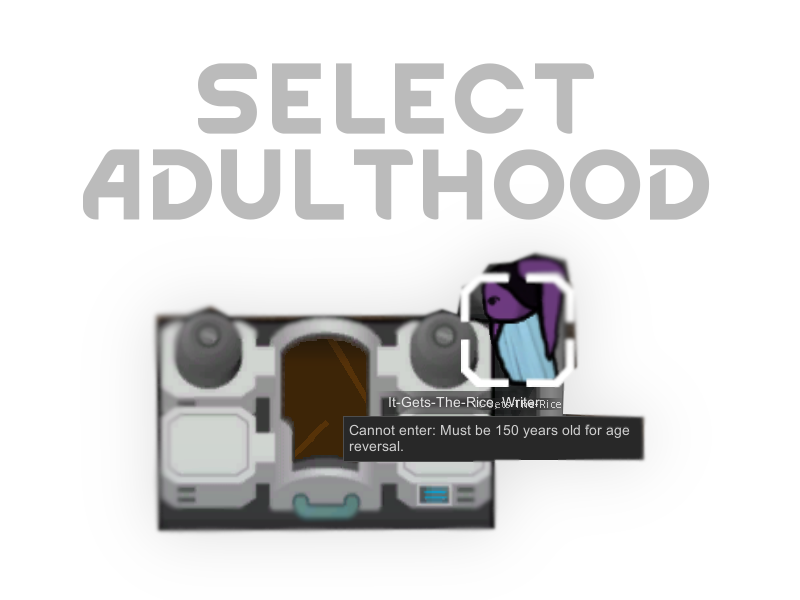
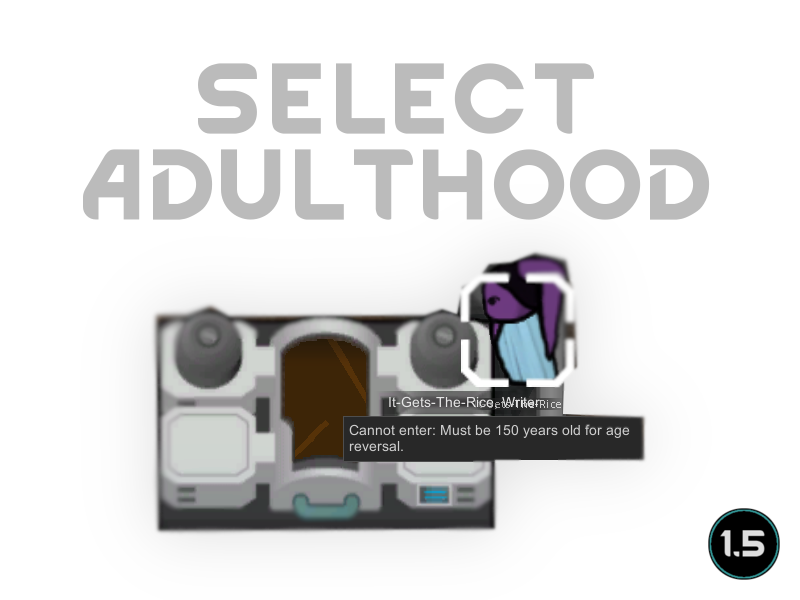
Mod updated for 1.5 and passed autotests

Changed region(s): [[0.875, 0.84, 1.0, 0.99]]

diff --git a/Source/SelectAdulthood/Pawn_AgeTracker_AdultMinAge.cs b/Source/SelectAdulthood/Pawn_AgeTracker_AdultMinAge.cs
@@ -19,12 +19,13 @@ public static class Pawn_AgeTracker_AdultMinAge
         }
 
         if (SelectAdulthoodMod.instance.Settings.RaceAdulthoods == null ||
-            SelectAdulthoodMod.instance.Settings.RaceAdulthoods.ContainsKey(___pawn.def.defName) == false)
+            SelectAdulthoodMod.instance.Settings.RaceAdulthoods.TryGetValue(___pawn.def.defName, out var adulthood) ==
+            false)
         {
             return;
         }
 
         __result = ___pawn.RaceProps
-            .lifeStageAges[SelectAdulthoodMod.instance.Settings.RaceAdulthoods[___pawn.def.defName]].minAge;
+            .lifeStageAges[adulthood].minAge;
     }
 }

diff --git a/Source/SelectAdulthood/SelectAdulthood.cs b/Source/SelectAdulthood/SelectAdulthood.cs
@@ -14,7 +14,7 @@ public class SelectAdulthood
     static SelectAdulthood()
     {
         AllRaces = DefDatabase<ThingDef>.AllDefsListForReading
-            .Where(def => def.race is { Animal: false, lifeStageAges: { Count: > 1 } })
+            .Where(def => def.race is { Animal: false, lifeStageAges.Count: > 1 })
             .OrderBy(def => def.label).ToList();
         var harmony = new Harmony("Mlie.SelectAdulthood");
         harmony.PatchAll(Assembly.GetExecutingAssembly());

diff --git a/Source/SelectAdulthood/SelectAdulthoodSettings.cs b/Source/SelectAdulthood/SelectAdulthoodSettings.cs
@@ -22,8 +22,8 @@ public class SelectAdulthoodSettings : ModSettings
 
     public void ResetManualValues()
     {
-        raceAdulthoodsKeys = new List<string>();
-        raceAdulthoodsValues = new List<int>();
+        raceAdulthoodsKeys = [];
+        raceAdulthoodsValues = [];
         RaceAdulthoods = new Dictionary<string, int>();
     }
 }

diff --git a/Source/SelectAdulthood/SelectAdulthoodMod.cs b/Source/SelectAdulthood/SelectAdulthoodMod.cs
@@ -49,8 +49,7 @@ public class SelectAdulthoodMod : Mod
         }
 
         currentVersion =
-            VersionFromManifest.GetVersionFromModMetaData(
-                ModLister.GetActiveModWithIdentifier("Mlie.SelectAdulthood"));
+            VersionFromManifest.GetVersionFromModMetaData(content.ModMetaData);
     }
 
     /// <summary>

diff --git a/README.md b/README.md
@@ -1,6 +1,6 @@
 # SelectAdulthood
 
-![Image](https://i.imgur.com/buuPQel.png)
+![Image](https://i.imgur.com/iCj5o7O.png)
 
 
 Some races have life-stages above adulthood, like elderly or ancient. 
@@ -8,24 +8,26 @@ This causes issues when using the age-reversal for example as the vanilla logic 
 
 This mod lets you select what stage is to be considered adulthood for each race if needed.
 	
-![Image](https://i.imgur.com/O0IIlYj.png)
+![Image](https://i.imgur.com/Ds0rBAD.png)
 
 Since modding is just a hobby for me I expect no donations to keep modding. If you still want to show your support you can gift me anything from my https://store.steampowered.com/wishlist/id/Mlie]Wishlist or buy me a cup of tea.
 
-https://ko-fi.com/G2G55DDYD]![Image](https://i.imgur.com/Utx6OIH.png)
+https://ko-fi.com/G2G55DDYD]![Image](https://i.imgur.com/VWG0yff.png)
 
 
-![Image](https://i.imgur.com/PwoNOj4.png)
+![Image](https://i.imgur.com/5xwDG6H.png)
 
 
 
 -  See if the the error persists if you just have this mod and its requirements active.
 -  If not, try adding your other mods until it happens again.
--  Post your error-log using https://steamcommunity.com/workshop/filedetails/?id=818773962]HugsLib and command Ctrl+F12
+-  Post your error-log using https://steamcommunity.com/workshop/filedetails/?id=818773962]HugsLib or the standalone https://steamcommunity.com/sharedfiles/filedetails/?id=2873415404]Uploader and command Ctrl+F12
 -  For best support, please use the Discord-channel for error-reporting.
 -  Do not report errors by making a discussion-thread, I get no notification of that.
 -  If you have the solution for a problem, please post it to the GitHub repository.
+-  Use https://github.com/RimSort/RimSort/releases/latest]RimSort to sort your mods
 
 
 
+https://steamcommunity.com/sharedfiles/filedetails/changelog/2600514932]![Image](https://img.shields.io/github/v/release/emipa606/SelectAdulthood?label=latest%20version&style=plastic&labelColor=0070cd&color=white)
 
